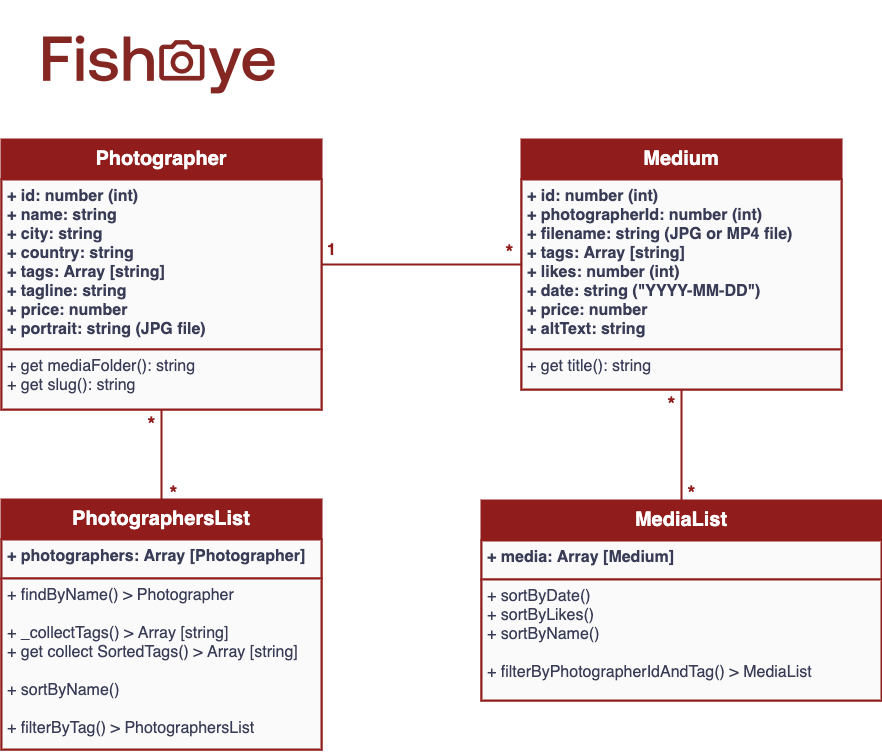
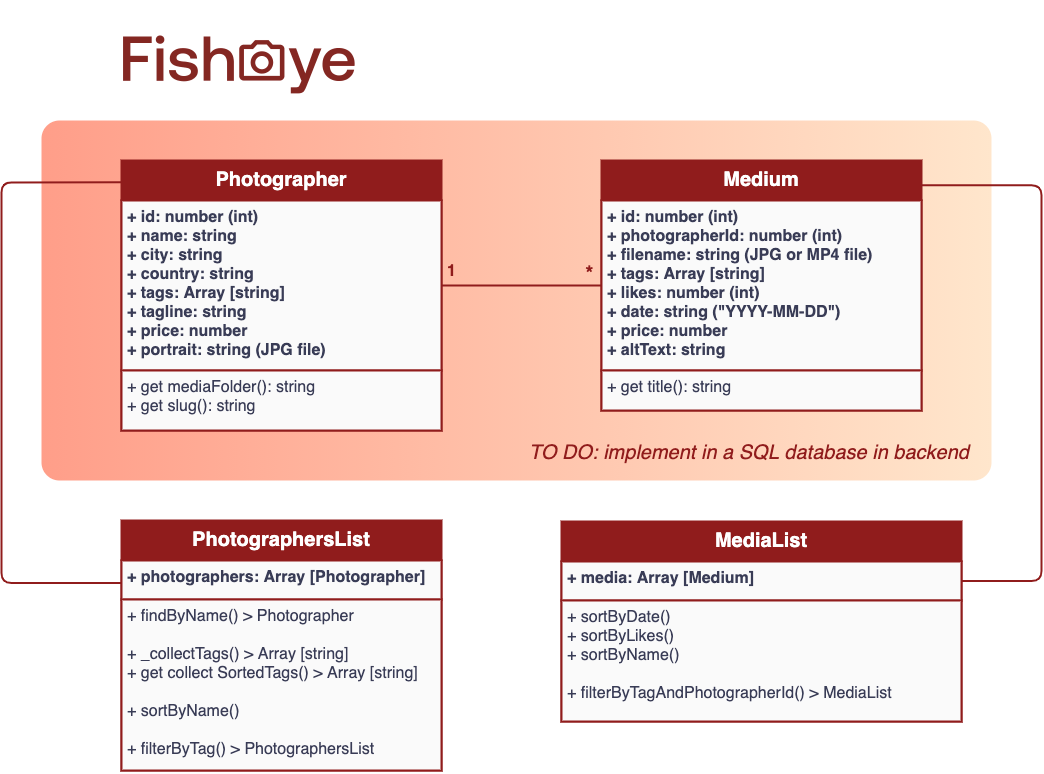
doc: update data class diagram

diff --git a/js/pages/photographerPageBuilder.js b/js/pages/photographerPageBuilder.js
@@ -87,9 +87,9 @@ export class PhotographerPageBuilder {
   }
 
   _templateMediaCards(filter) {
-    let photographerMedia = this._mediaList.filterByPhotographerIdAndTag(
-      this._photographer.id,
-      this._checkedTag
+    let photographerMedia = this._mediaList.filterByTagAndPhotographerId(
+      this._checkedTag,
+      this._photographer.id
     );
 
     if (filter == "date") photographerMedia.sortByDate();
@@ -106,9 +106,9 @@ export class PhotographerPageBuilder {
   }
 
   _templatePhotographerSummary() {
-    const photographerMedia = this._mediaList.filterByPhotographerIdAndTag(
-      this._photographer.id,
-      ""
+    const photographerMedia = this._mediaList.filterByTagAndPhotographerId(
+      "",
+      this._photographer.id
     );
 
     let photographerTotalLikes = 0;
@@ -127,9 +127,9 @@ export class PhotographerPageBuilder {
   }
 
   _addLikesIncrementEvents() {
-    const photographerMedia = this._mediaList.filterByPhotographerIdAndTag(
-      this._photographer.id,
-      this._checkedTag
+    const photographerMedia = this._mediaList.filterByTagAndPhotographerId(
+      this._checkedTag,
+      this._photographer.id
     );
 
     for (let medium of photographerMedia.media) {

diff --git a/js/data/medium.js b/js/data/medium.js
@@ -52,7 +52,7 @@ export class MediaList {
     });
   }
 
-  filterByPhotographerIdAndTag(photographerId, tag) {
+  filterByTagAndPhotographerId(tag, photographerId) {
     let photographerMedia = [];
 
     if (tag) {
